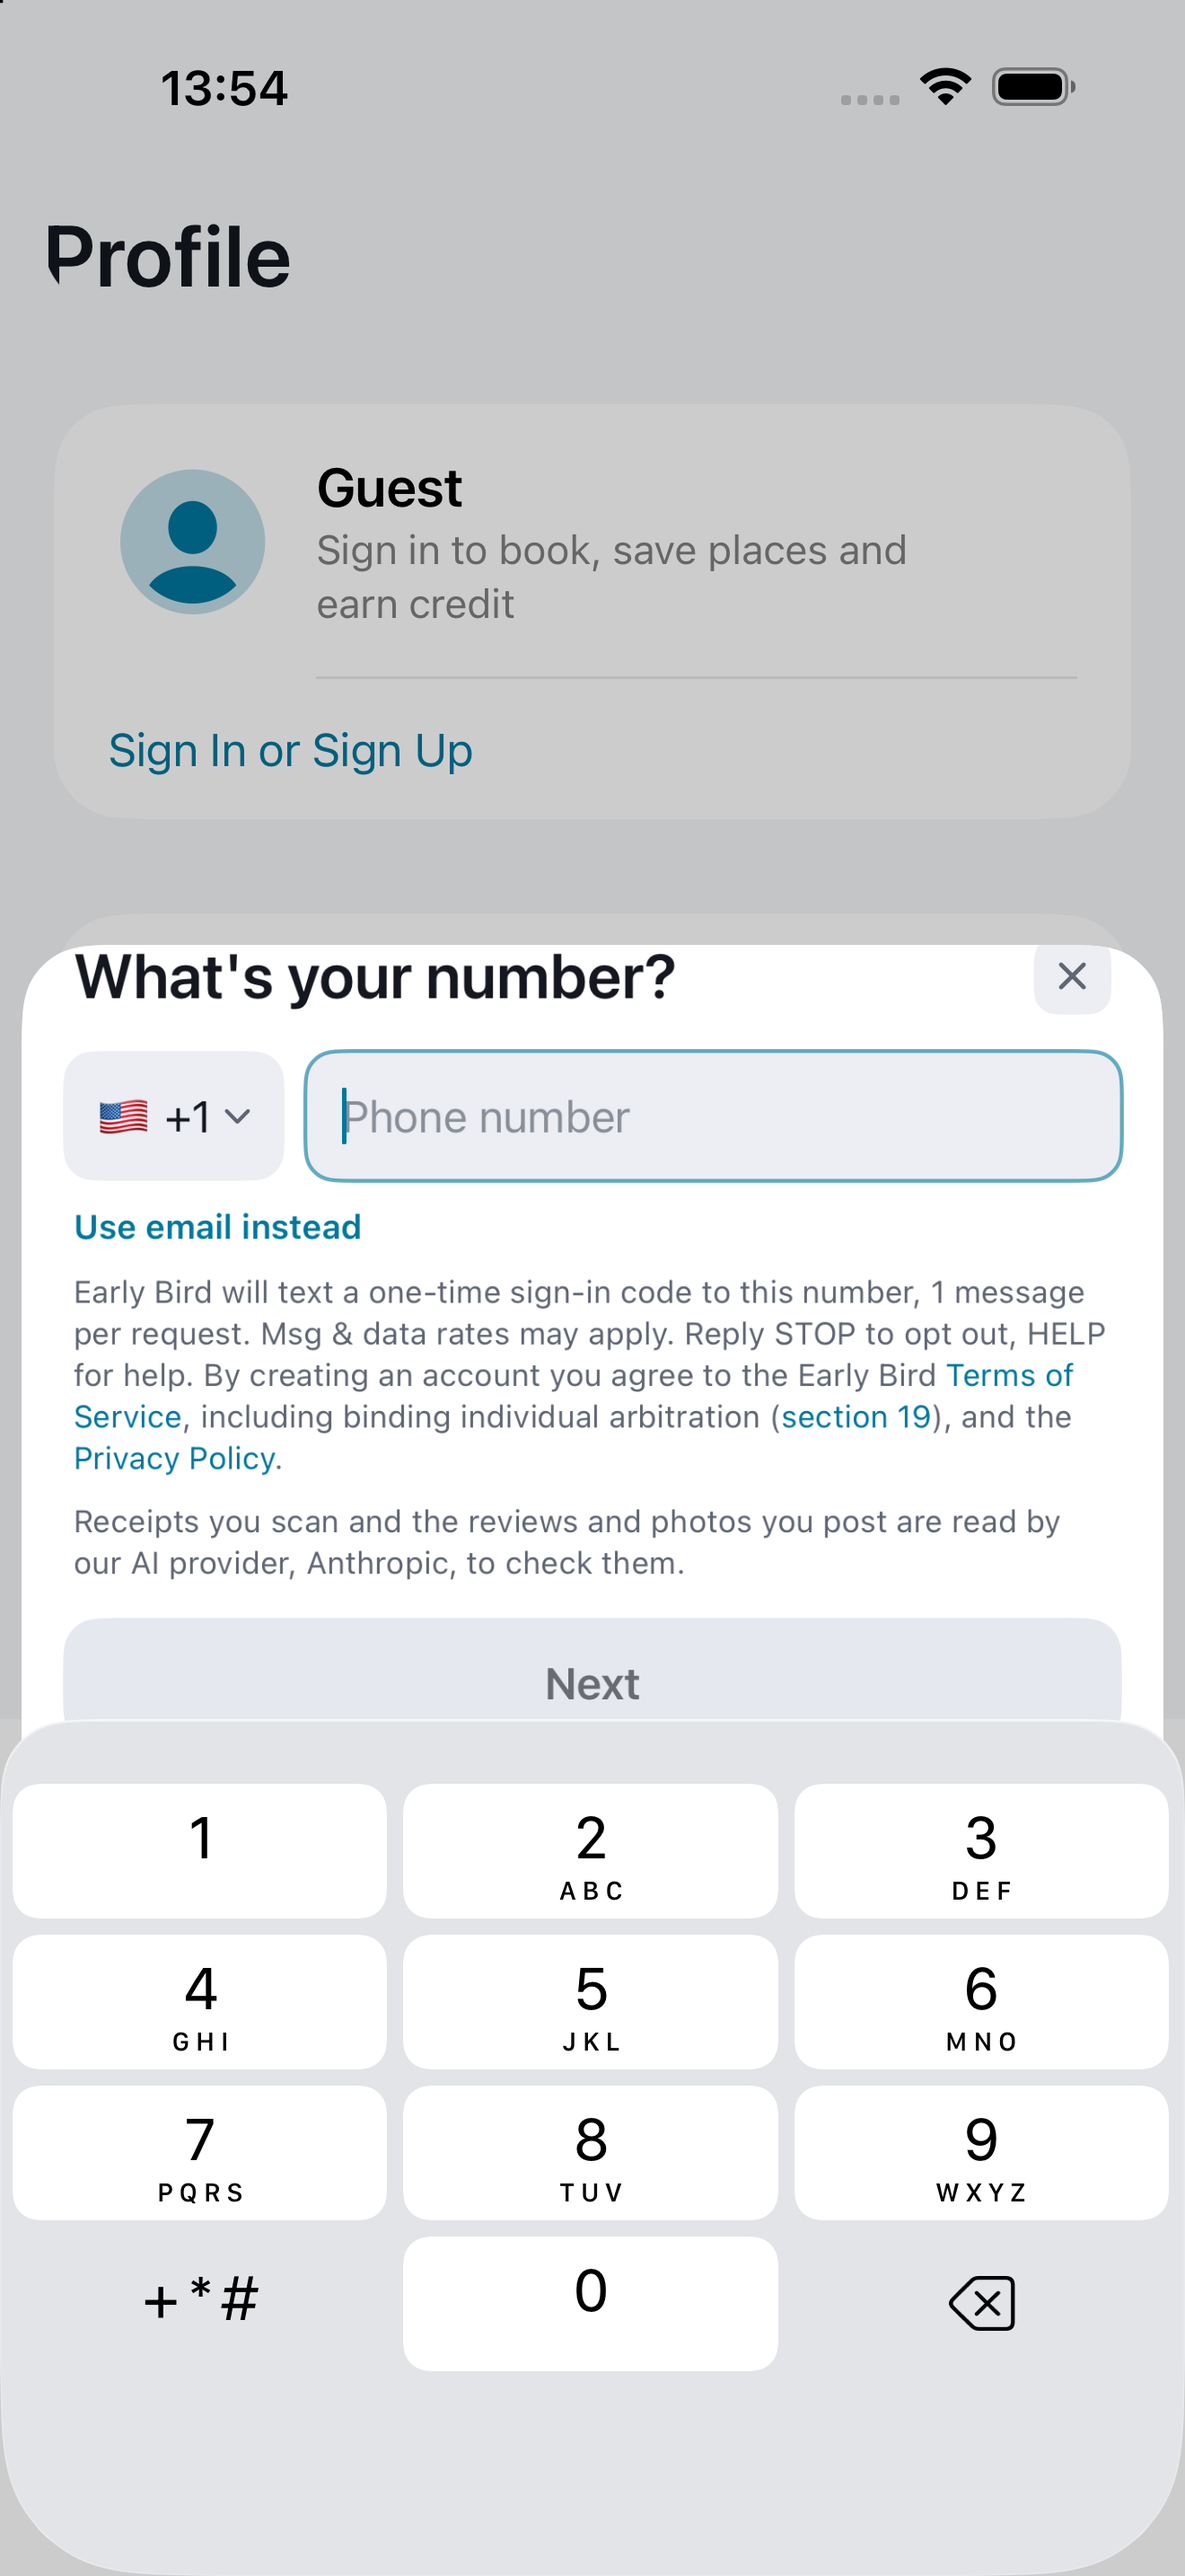
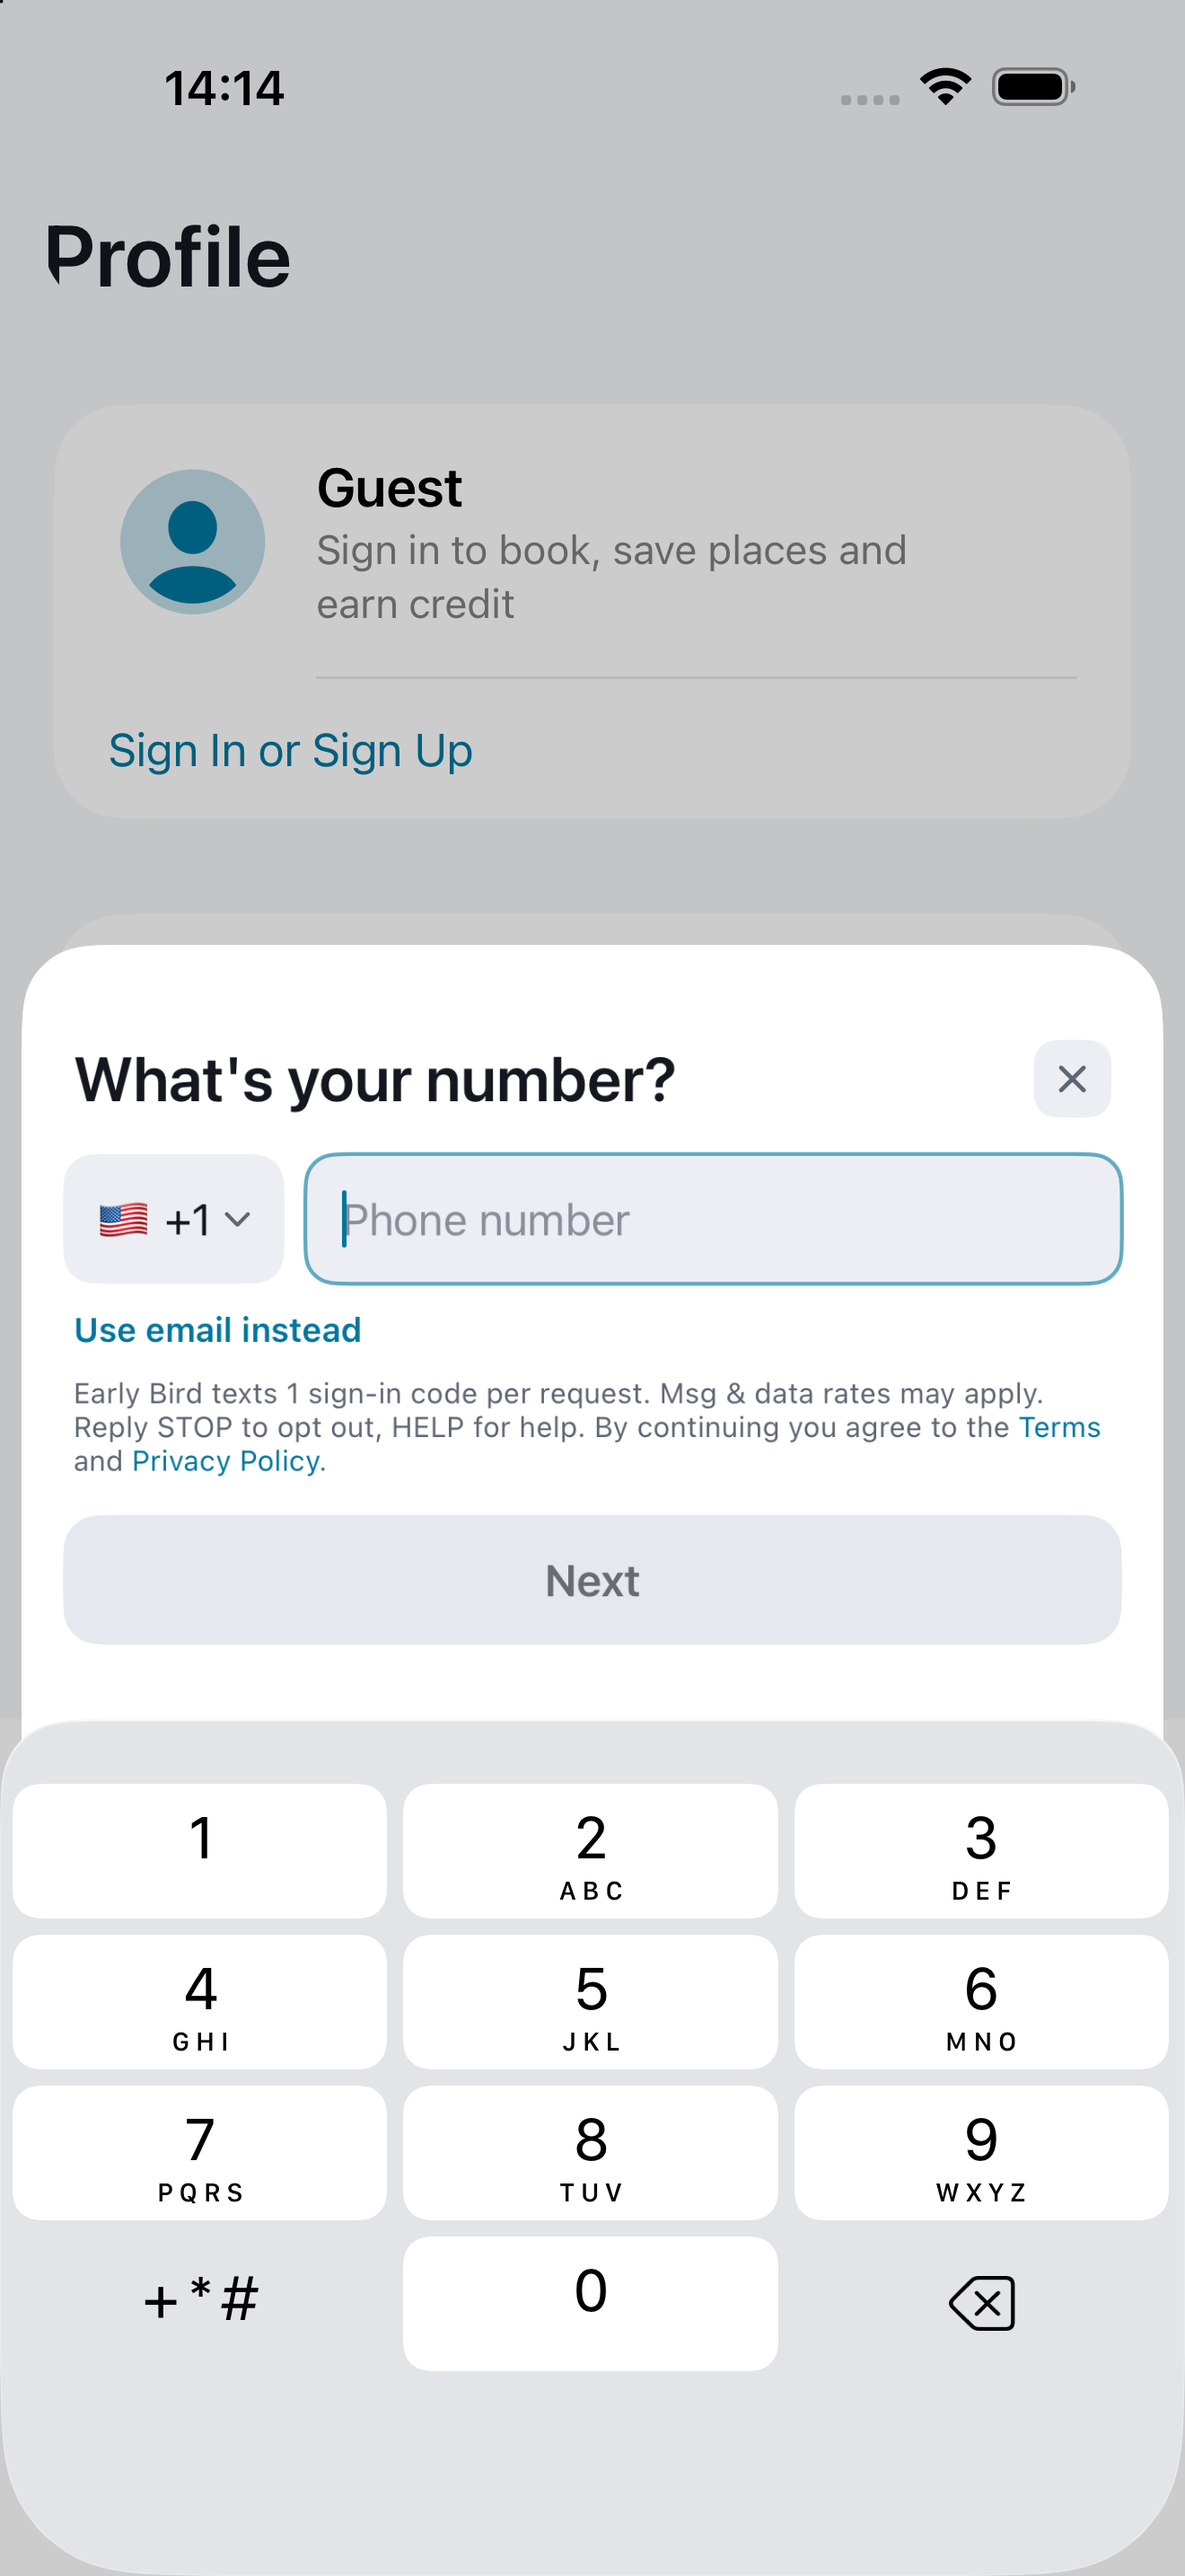
/sms/: how people agree to Early Bird sign-in texts, with app and website screenshots (Twilio toll-free verification) (owner, 22 Nov 2026)

Changed region(s): [[0.0311, 0.3724, 0.9629, 0.6827], [0.1553, 0.031, 0.2485, 0.0621]]

diff --git a/sms/index.html b/sms/index.html
@@ -31,9 +31,9 @@
   <p>Example: “Your Early Bird code is 123456. Don't share it with anyone.”</p>
 
   <h2>How you agree</h2>
-  <p>You type your own mobile number on the Early Bird sign-in screen and tap Next. Right under the number, the screen says:
-  “Early Bird will text a one-time sign-in code to this number, 1 message per request. Msg &amp; data rates may apply.
-  Reply STOP to opt out, HELP for help,” with links to our Terms of Service and Privacy Policy.</p>
+  <p>You type your own mobile number on the Early Bird sign-in screen and tap Next. We then send a one-time sign-in code to
+  that number by SMS text message. Right under the number, the screen says: “Early Bird texts 1 sign-in code per request. Msg &amp; data
+  rates may apply. Reply STOP to opt out, HELP for help. By continuing you agree to the Terms and Privacy Policy,” with links to both.</p>
   <div class="shots">
     <figure><img src="optin-ios.png" alt="Early Bird iPhone app sign-in screen with the text message consent line"><figcaption>Early Bird iPhone app: sign in with your phone</figcaption></figure>
     <figure><img src="optin-web.png" alt="eatearlybird.com sign-in page with the text message consent line"><figcaption>eatearlybird.com/book: sign in with your phone</figcaption></figure>
